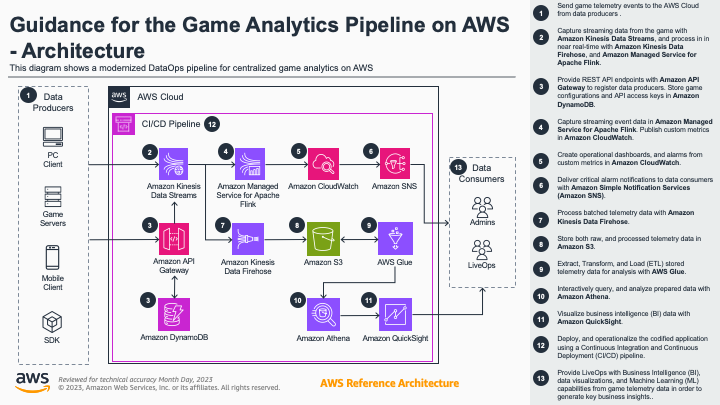
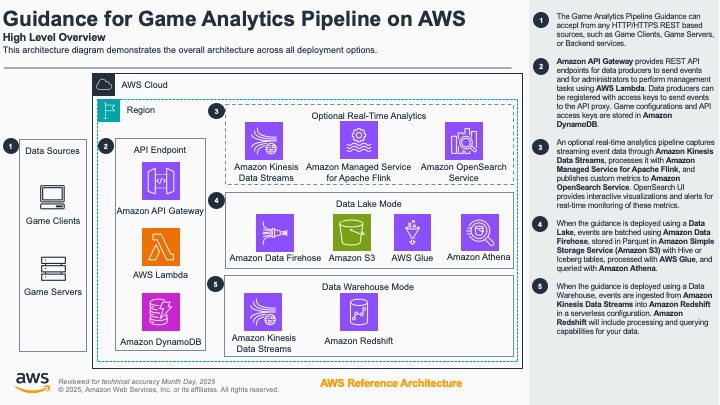
update overview and doc links

diff --git a/README.md b/README.md
@@ -15,7 +15,11 @@
 
 The games industry is increasing adoption of the Games-as-a-Service operating model, where games have become more like a service than a product, and recurring revenue is frequently generated through in-app purchases, subscriptions, and other techniques. With this change, it is critical to develop a deeper understanding of how players use the features of games and related services. This understanding allows game developers to continually adapt, and make the necessary changes to keep players engaged.
 
-The Game Analytics Pipeline guidance helps game developers deploy a scalable serverless data pipeline for ingesting, storing, and analyzing telemetry data generated from games, and services. The guidance supports streaming ingestion of data, allowing users to gain critical insights from their games, and other applications in near real-time, allowing them to focus on expanding, and improving game experience almost immediately, instead of managing the underlying infrastructure operations. Since the guidance has been codified as a CDK application, game developers can determine the best modules, or components that fit their use case, allowing them to test, and QA the best architecture before deploying into production. This modular system allows for additional AWS capabilities, such as AI/ML models, to be integrated into the architecture in order to further support real-time decision making, and automated LiveOps using AIOps, to further enhance player engagement. Essentially allowing developers to focus on expanding game functionality, rather than managing the underlying infrastructure operations.
+![Architecture](./docs/media/architecture.png)
+
+The Game Analytics Pipeline guidance helps game developers deploy a scalable serverless data pipeline for ingesting, storing, and analyzing telemetry data generated from games, and services. The guidance supports streaming ingestion of data, allowing users to gain critical insights from their games, and other applications in near real-time, allowing them to focus on expanding, and improving game experience almost immediately, instead of managing the underlying infrastructure operations. 
+
+The guidance has been codified as a modular CDK or Terraform application, enabling game developers to determine the best modules that fit their use case. This modular system allows for additional AWS capabilities, such as AI/ML models, to be integrated into the architecture to further support real-time decision making and automated LiveOps using AIOps to further enhance player engagement. This system allows developers to focus on expanding game functionality instead of managing the underlying infrastructure.
 
 ### Cost
 
@@ -25,9 +29,8 @@ _You are responsible for the cost of the AWS services used while running this Gu
 - $49.38 per month for Data Lake (Iceberg Table)
 - $260.51 for Amazon Redshift
 - \+ $771.47 per month if real-time analytics are enabled
-    - **NOTE:**  Redshift also requires the use of Kinesis data streams which is a $69.30 overlapping cost to be subtracted if both are enabled.
 
-**NOTE:** Redshift becomes more cost-effective when scanning large data volumes per query (>10GB data scanned for a single query) coupled with frequent queries
+**NOTE:** The price estimates for Amazon Redshift and real-time analytics both include costs for an on-demand Amazon Kinesis data stream. If both options are enabled, the overlapping cost of the data stream will have to be subtracted.
 
 _We recommend creating a [Budget](https://docs.aws.amazon.com/cost-management/latest/userguide/budgets-managing-costs.html) through [AWS Cost Explorer](https://aws.amazon.com/aws-cost-management/aws-cost-explorer/) to help manage costs. Prices are subject to change. For full details, refer to the pricing webpage for each AWS service used in this Guidance._
 
@@ -36,13 +39,14 @@ _We recommend creating a [Budget](https://docs.aws.amazon.com/cost-management/l
 The following table provides a sample cost breakdown for components in the guidance in the US East (N. Virginia) Region for one month.
 
 Assuming the following variables:
-- Processing 259.2 million events per month = 100 events per second
-- Requests batched by 100 (100kb batched) per API request = 2,592,000 requests (1 request per second)
-- 100 queries per day scanning 100mb avg each 2DPU 2 minute ETL jobs (If using Data Lake)
+- 100 1kb game events recieved and processed per second = 259.2 million events per month 
+- Requests batched by 100 (100kb batched) per API request = 2,592,000 requests per month (1 request per second)
+- 100 queries per day scanning 100mb per query on average 
+- 2 DPU Glue ETL jobs running for 2 minutes per day when using a Hive data lake as the data stack
 - 0.01GB of entries in DynamoDB
 - 259GB data (259 million 1kb entries)
 
-Cost consists of the API component, data platform (choose between hive data lake, iceberg data lake, and redshift), optional real-time kinesis data stream, and optional real-time analytics. To enable Redshift data platform or real-time analytics, the kinesis data stream must also be enabled. 
+The cost estimate consists of the required API component and choice of data stack (choose between Apache Hive data lake, Apache Iceberg data lake, and Amazon Redshift). There are optional configurations to enable a real-time Amazon Kinesis Data Stream and real-time analytics. To use Amazon Redshift as the data stack or real-time analytics, the Amazon Kinesis Data Stream must also be enabled. 
 
 **NOTE:** These are rough estimates only, and even though they are calculated with a very pessimistic approach, there can always be some costs that are not fully covered here. You always need to do your own testing and estimates.
 
@@ -59,7 +63,7 @@ Cost consists of the API component, data platform (choose between hive data lake
 | Amazon Kinesis Data Streams (On-Demand) | 259,200,000 requests, 1kb/record, 2 readers | $ 69.30/month |
 | Amazon Kinesis Data Streams (Provisioned) | 259,200,000 requests, 2 shards | $ 25.58/month |
 
-*Choose between on-demand and provisioned based on your traffic patterns*
+*Choose between on-demand and provisioned capacity modes [based on your traffic patterns](https://docs.aws.amazon.com/streams/latest/dev/how-do-i-size-a-stream.html)*
 
 #### Data Platform - Data Lake (Hive Table)
 | AWS service  | Dimensions | Cost [USD] |
@@ -80,7 +84,7 @@ Cost consists of the API component, data platform (choose between hive data lake
 | AWS Glue Data Catalog | 1 million objects stored, 1 million requests, 120 minutes optimization | $ 12.76/month |
 | Amazon Athena | 100 queries per day scanning 100mb data avg | $ 1.45/month |
 
-*Amazon Data Firehose is billed in 5kb increments unless Iceberg is the destination*
+*When Amazon Data Firehose is configured with Apache Iceberg Tables as a destination, the pricing will be billed per GB ingested with no 5KB increments.*
 
 #### Data Platform - Amazon Redshift
 | AWS service  | Dimensions | Cost [USD] |
@@ -119,11 +123,11 @@ Python/pip, Npm/node, and (optionally) Terraform
 
 ## Deployment Steps, Running the Guidance, and Deployment Validation
 
-Refer to the full documentation through `pip install mkdocs mkdocs-material` and `mkdocs serve` or in `docs/getting-started.md` for running the guidance. The page provides full detailed walkthrough and deployment steps.
+Refer to the full documentation in our [getting started guide](https://aws-solutions-library-samples.github.io/solutions/guidance/game-analytics-pipeline-on-aws/getting-started.html). The page provides full detailed walkthrough and deployment steps.
 
 ## Next Steps
 
-Refer to the documentation through `pip install mkdocs mkdocs-material` and `mkdocs serve` or in `docs/customizations.md` for next steps and customizations
+Refer to the [customization documentation](https://aws-solutions-library-samples.github.io/solutions/guidance/game-analytics-pipeline-on-aws/customizations.html) for next steps and customizations.
 
 
 ## Cleanup
